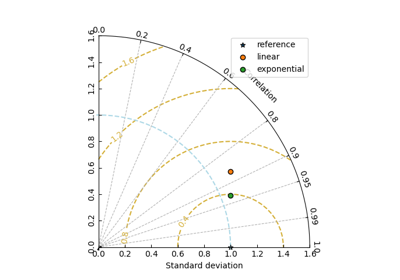
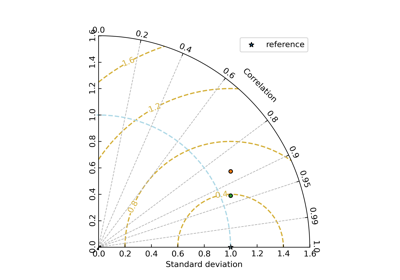
resolve #11

diff --git a/src/cgeniepy/skill.py b/src/cgeniepy/skill.py
@@ -315,7 +315,7 @@ class TaylorDiagram(object):
 
         ## create figure
         if not fig:
-            self.fig = plt.figure()
+            self.fig = plt.figure(dpi=300)
         else:
             self.fig = fig
             
@@ -366,16 +366,16 @@ class TaylorDiagram(object):
         ## x->theta, y->radiance        
         self.ax.scatter(np.arccos(correlation), std,*args, **kwargs)        
 
-    def plot(self):
+    def plot(self, *args, **kwargs):
         if not self.mult_comp:
             ## add model point
-            self.add_point(self.corr, self.model_std, edgecolor='k', label=self.label)
+            self.add_point(self.corr, self.model_std, edgecolor='k', label=self.label, *args, **kwargs)
         else:
             
             for i in range(len(self.ac)):
                 ## normalised std
                 self.add_point(self.corr[i], self.model_std[i]/self.obs_std[i], label=self.label[i],
-                               edgecolor='k')
+                               edgecolor='k', *args, **kwargs)
         self.ax.legend()
 
     def savefig(self, *args, **kwargs):

diff --git a/examples/plot_evaluation.py b/examples/plot_evaluation.py
@@ -1,0 +1,32 @@
+"""
+======================================================
+Evaluation of ocean biogeochemistry
+======================================================
+
+This example uses WOA13/GLODAP data to evaluate the performance of cGENIE model.
+
+The regridded data is downloaded from https://www.seao2.info/mymuffin.html
+"""
+
+import cgeniepy
+from cgeniepy.skill import ArrComparison
+from cgeniepy.skill import TaylorDiagram
+import matplotlib.pyplot as plt
+
+sample_model = cgeniepy.sample_model()
+data = cgeniepy.load_obs('worjh2')
+
+genie_var  = ['ocn_O2', 'ocn_ALK','ocn_PO4', 'ocn_temp', 'ocn_sal', 'ocn_SiO2']
+obs_var = ['o2', 'alk', 'po4', 'temp', 'sal', 'si']
+
+arr_comps = []
+for x,y in zip(genie_var, obs_var):
+    obs = data[y]
+    model = sample_model.get_var(x).isel(time=-1)
+    tmp = ArrComparison(model.data.to_numpy(), obs.to_numpy(), label=y)
+    arr_comps.append(tmp)
+
+tay_diagram = TaylorDiagram(arr_comps)
+tay_diagram.setup_ax(crmse_contour=True)
+tay_diagram.plot(s=100)
+plt.show()

diff --git a/docs/source/auto_examples/plot_taylor_diagram.py b/docs/source/auto_examples/plot_taylor_diagram.py
@@ -11,6 +11,7 @@ The R package open-air has provided a nice explanation on what taylor diagram is
 import numpy as np
 from scipy.optimize import curve_fit
 from cgeniepy.skill import ArrComparison, TaylorDiagram
+import matplotlib.pyplot as plt
 
 def generate_data(x, a, b, c, noise=0.5):
     y = a * np.exp(-b * x) + c  # Exponential function
@@ -43,4 +44,5 @@ ac2 = ArrComparison(y, fit2, 'exponential')
 ## Create TaylorDiagram instance
 diagram = TaylorDiagram([ac1, ac2])
 diagram.setup_ax(crmse_contour=True)
-diagram.plot()
+diagram.plot(s=20)
+plt.show()

diff --git a/examples/plot_taylor_diagram.py b/examples/plot_taylor_diagram.py
@@ -11,6 +11,7 @@ The R package open-air has provided a nice explanation on what taylor diagram is
 import numpy as np
 from scipy.optimize import curve_fit
 from cgeniepy.skill import ArrComparison, TaylorDiagram
+import matplotlib.pyplot as plt
 
 def generate_data(x, a, b, c, noise=0.5):
     y = a * np.exp(-b * x) + c  # Exponential function
@@ -43,4 +44,5 @@ ac2 = ArrComparison(y, fit2, 'exponential')
 ## Create TaylorDiagram instance
 diagram = TaylorDiagram([ac1, ac2])
 diagram.setup_ax(crmse_contour=True)
-diagram.plot()
+diagram.plot(s=20)
+plt.show()

diff --git a/src/cgeniepy/__init__.py b/src/cgeniepy/__init__.py
@@ -23,4 +23,12 @@ def sample_model(model_type='GenieModel', *args, **kwargs):
         raise ValueError('model_type must be either GenieModel or EcoModel')    
 
     return model
+
+def load_obs(grid='worjh2'):
+    file_path=str(files('data').joinpath(grid+'_obs.nc'))
+    import xarray as xr
+    obs_data= xr.load_dataset(file_path)
+    return obs_data
+    
+
     

diff --git a/docs/source/auto_examples/plot_taylor_diagram.rst b/docs/source/auto_examples/plot_taylor_diagram.rst
@@ -11,7 +11,7 @@
         :class: sphx-glr-download-link-note
 
         :ref:`Go to the end <sphx_glr_download_auto_examples_plot_taylor_diagram.py>`
-        to download the full example code
+        to download the full example code.
 
 .. rst-class:: sphx-glr-example-title
 
@@ -27,7 +27,7 @@ This example uses fake data and fitted model prediction to plot taylor diagram
 The R package open-air has provided a nice explanation on what taylor diagram is:
      https://bookdown.org/david_carslaw/openair/sections/model-evaluation/taylor-diagram.html (Figure 20.2)
 
-.. GENERATED FROM PYTHON SOURCE LINES 11-47
+.. GENERATED FROM PYTHON SOURCE LINES 11-49
 
 
 
@@ -45,6 +45,7 @@ The R package open-air has provided a nice explanation on what taylor diagram is
     import numpy as np
     from scipy.optimize import curve_fit
     from cgeniepy.skill import ArrComparison, TaylorDiagram
+    import matplotlib.pyplot as plt
 
     def generate_data(x, a, b, c, noise=0.5):
         y = a * np.exp(-b * x) + c  # Exponential function
@@ -77,12 +78,13 @@ The R package open-air has provided a nice explanation on what taylor diagram is
     ## Create TaylorDiagram instance
     diagram = TaylorDiagram([ac1, ac2])
     diagram.setup_ax(crmse_contour=True)
-    diagram.plot()
+    diagram.plot(s=20)
+    plt.show()
 
 
 .. rst-class:: sphx-glr-timing
 
-   **Total running time of the script:** (0 minutes 0.074 seconds)
+   **Total running time of the script:** (0 minutes 0.140 seconds)
 
 
 .. _sphx_glr_download_auto_examples_plot_taylor_diagram.py:
@@ -98,6 +100,10 @@ The R package open-air has provided a nice explanation on what taylor diagram is
     .. container:: sphx-glr-download sphx-glr-download-python
 
       :download:`Download Python source code: plot_taylor_diagram.py <plot_taylor_diagram.py>`
+
+    .. container:: sphx-glr-download sphx-glr-download-zip
+
+      :download:`Download zipped: plot_taylor_diagram.zip <plot_taylor_diagram.zip>`
 
 
 .. only:: html

diff --git a/docs/source/auto_examples/sg_execution_times.rst b/docs/source/auto_examples/sg_execution_times.rst
@@ -6,7 +6,7 @@
 
 Computation times
 =================
-**00:01.181** total execution time for 15 files **from auto_examples**:
+**00:02.284** total execution time for 16 files **from auto_examples**:
 
 .. container::
 
@@ -32,13 +32,19 @@ Computation times
    * - Example
      - Time
      - Mem (MB)
-   * - :ref:`sphx_glr_auto_examples_plot_arrcomparison.py` (``plot_arrcomparison.py``)
-     - 00:01.181
+   * - :ref:`sphx_glr_auto_examples_plot_evaluation.py` (``plot_evaluation.py``)
+     - 00:02.144
+     - 0.0
+   * - :ref:`sphx_glr_auto_examples_plot_taylor_diagram.py` (``plot_taylor_diagram.py``)
+     - 00:00.140
      - 0.0
    * - :ref:`sphx_glr_auto_examples_plot_PO4_distribution.py` (``plot_PO4_distribution.py``)
      - 00:00.000
      - 0.0
    * - :ref:`sphx_glr_auto_examples_plot_additional_cmap.py` (``plot_additional_cmap.py``)
+     - 00:00.000
+     - 0.0
+   * - :ref:`sphx_glr_auto_examples_plot_arrcomparison.py` (``plot_arrcomparison.py``)
      - 00:00.000
      - 0.0
    * - :ref:`sphx_glr_auto_examples_plot_coastal_data.py` (``plot_coastal_data.py``)
@@ -69,9 +75,6 @@ Computation times
      - 00:00.000
      - 0.0
    * - :ref:`sphx_glr_auto_examples_plot_sst_map.py` (``plot_sst_map.py``)
-     - 00:00.000
-     - 0.0
-   * - :ref:`sphx_glr_auto_examples_plot_taylor_diagram.py` (``plot_taylor_diagram.py``)
      - 00:00.000
      - 0.0
    * - :ref:`sphx_glr_auto_examples_plot_timeseries.py` (``plot_timeseries.py``)

diff --git a/docs/source/auto_examples/index.rst b/docs/source/auto_examples/index.rst
@@ -117,6 +117,23 @@ Below is a gallery of examples
 
 .. raw:: html
 
+    <div class="sphx-glr-thumbcontainer" tooltip="This example uses WOA13/GLODAP data to evaluate the performance of cGENIE model.">
+
+.. only:: html
+
+  .. image:: /auto_examples/images/thumb/sphx_glr_plot_evaluation_thumb.png
+    :alt:
+
+  :ref:`sphx_glr_auto_examples_plot_evaluation.py`
+
+.. raw:: html
+
+      <div class="sphx-glr-thumbnail-title">Evaluation of ocean biogeochemistry</div>
+    </div>
+
+
+.. raw:: html
+
     <div class="sphx-glr-thumbcontainer" tooltip="This example shows how to plot the 2D ScatterData object. I use a LGM d13C data from Peterson et al. 2014 (https://agupubs.onlinelibrary.wiley.com/doi/full/10.1002/2013PA002552) as an example.">
 
 .. only:: html
@@ -284,6 +301,7 @@ Below is a gallery of examples
    /auto_examples/plot_sst_map
    /auto_examples/plot_timeseries
    /auto_examples/plot_logo
+   /auto_examples/plot_evaluation
    /auto_examples/plot_scatter_map
    /auto_examples/plot_scatterdata
    /auto_examples/plot_PO4_distribution
